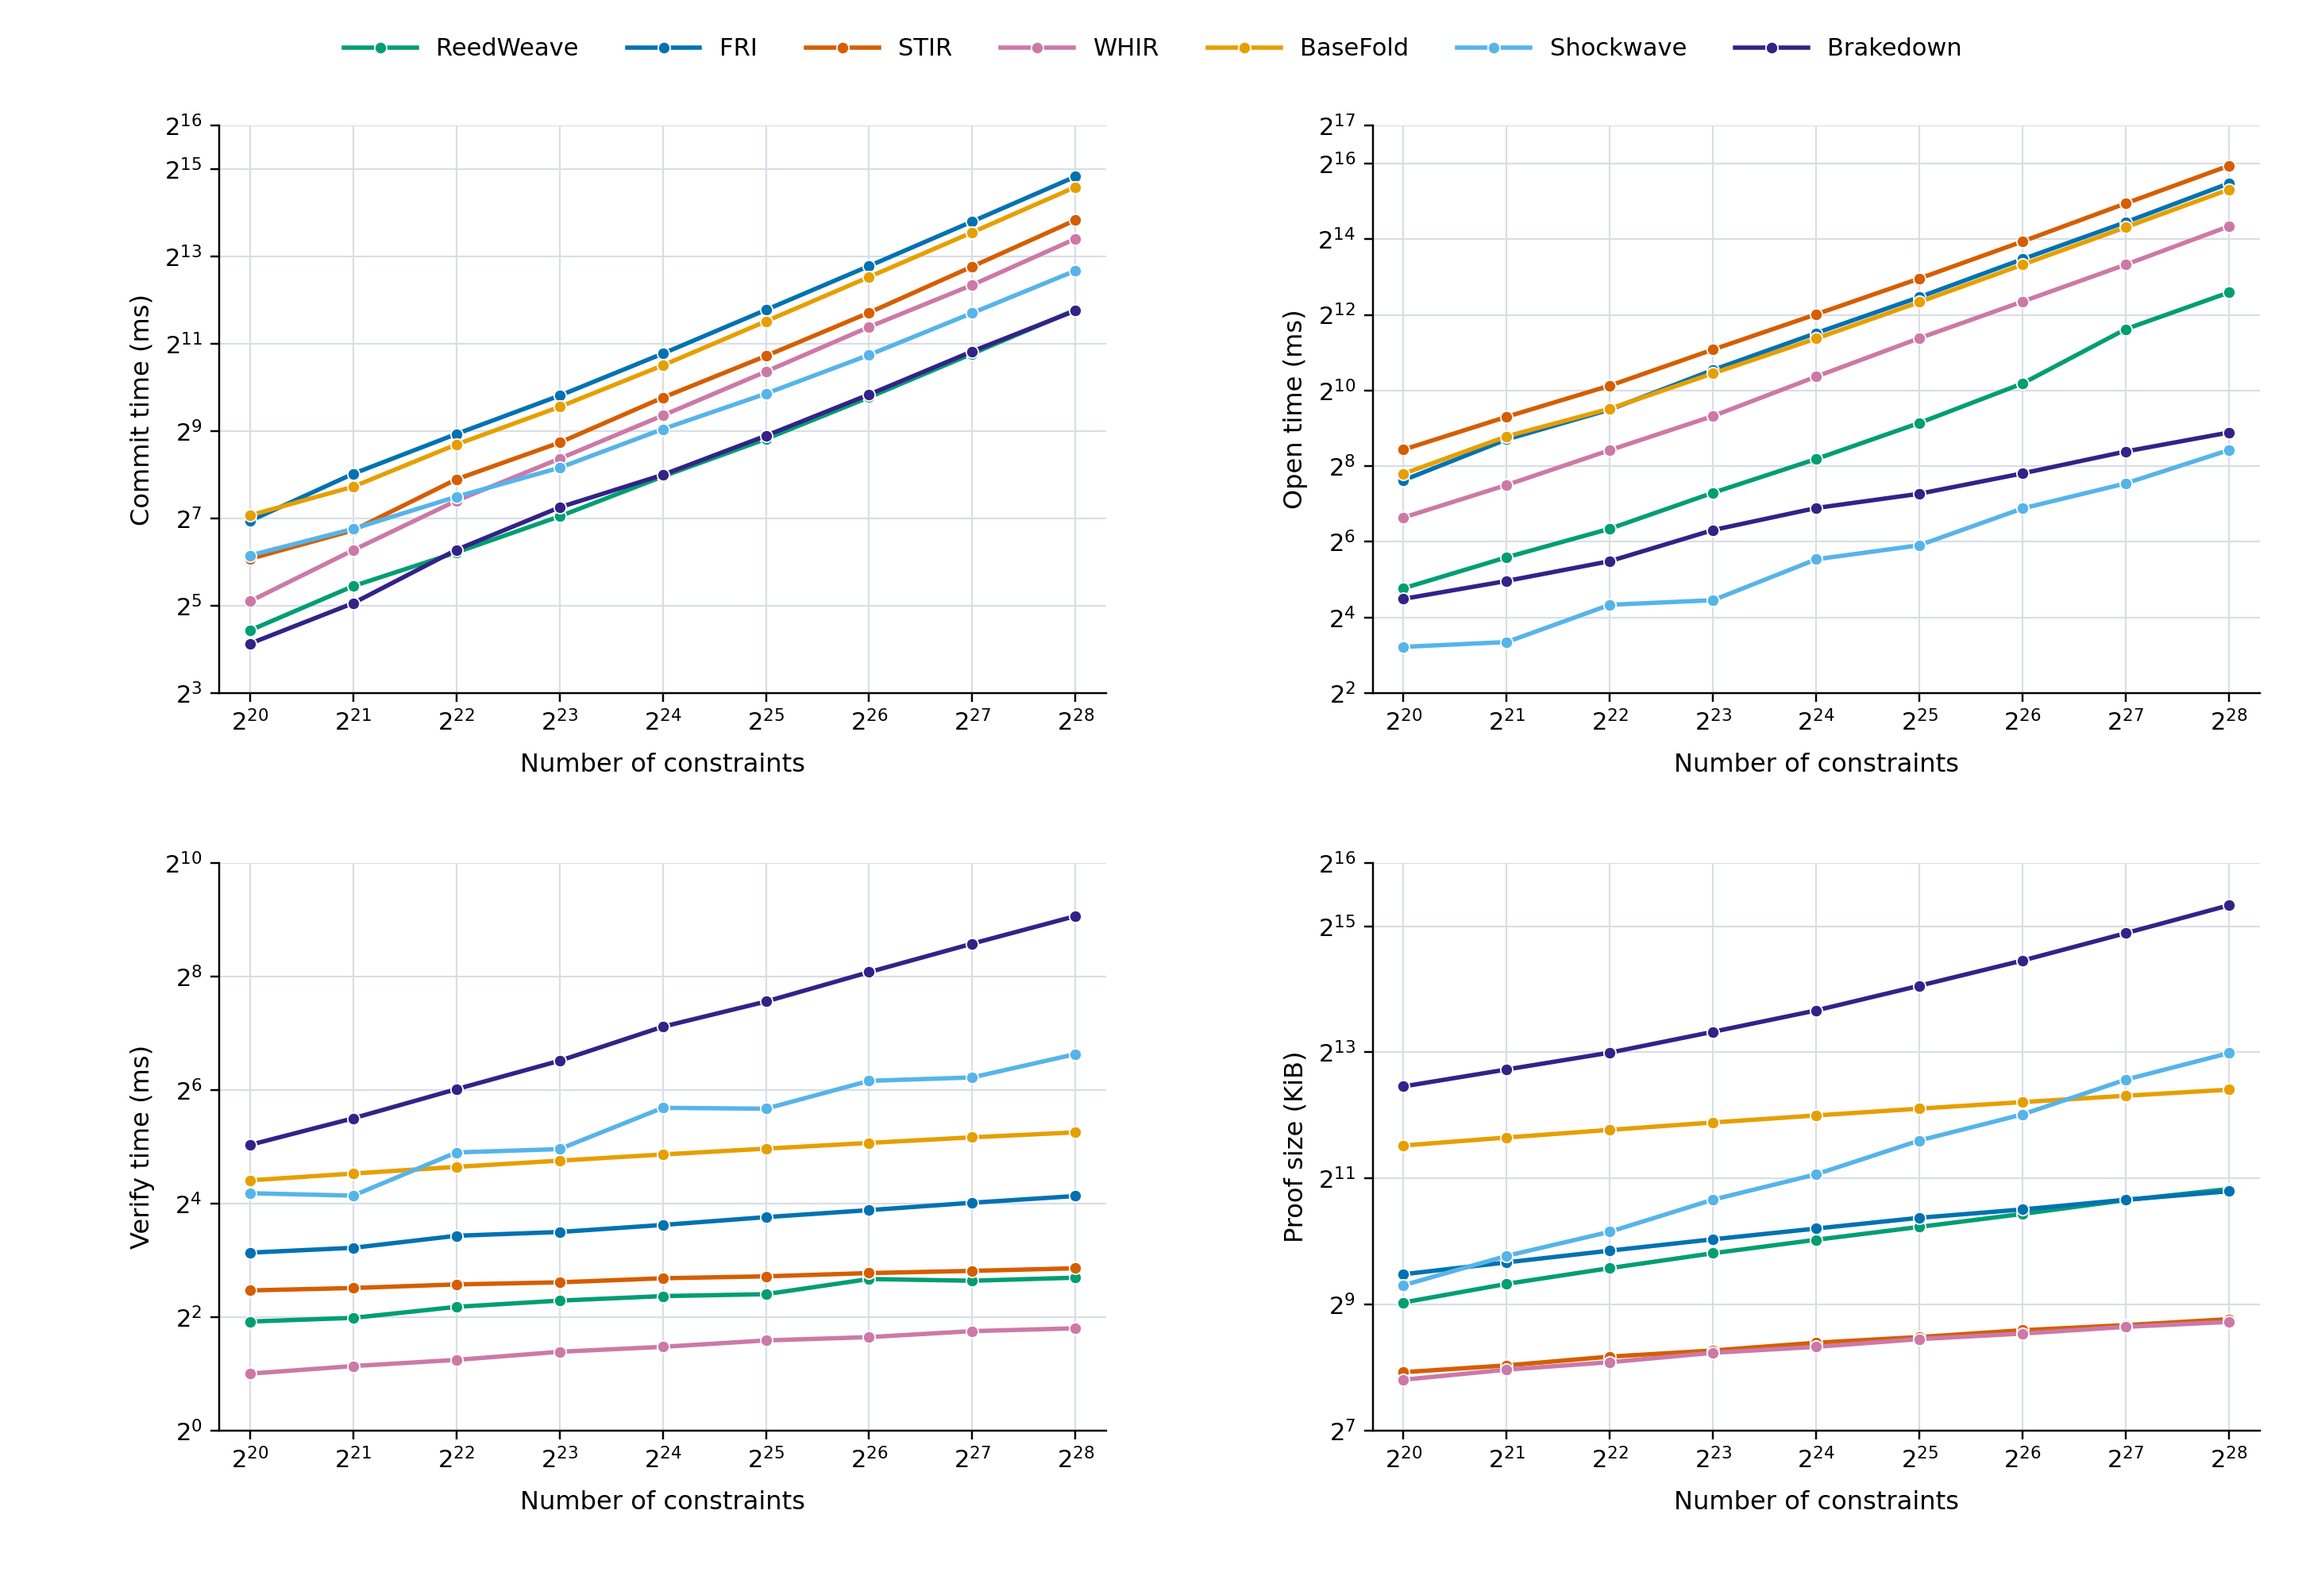
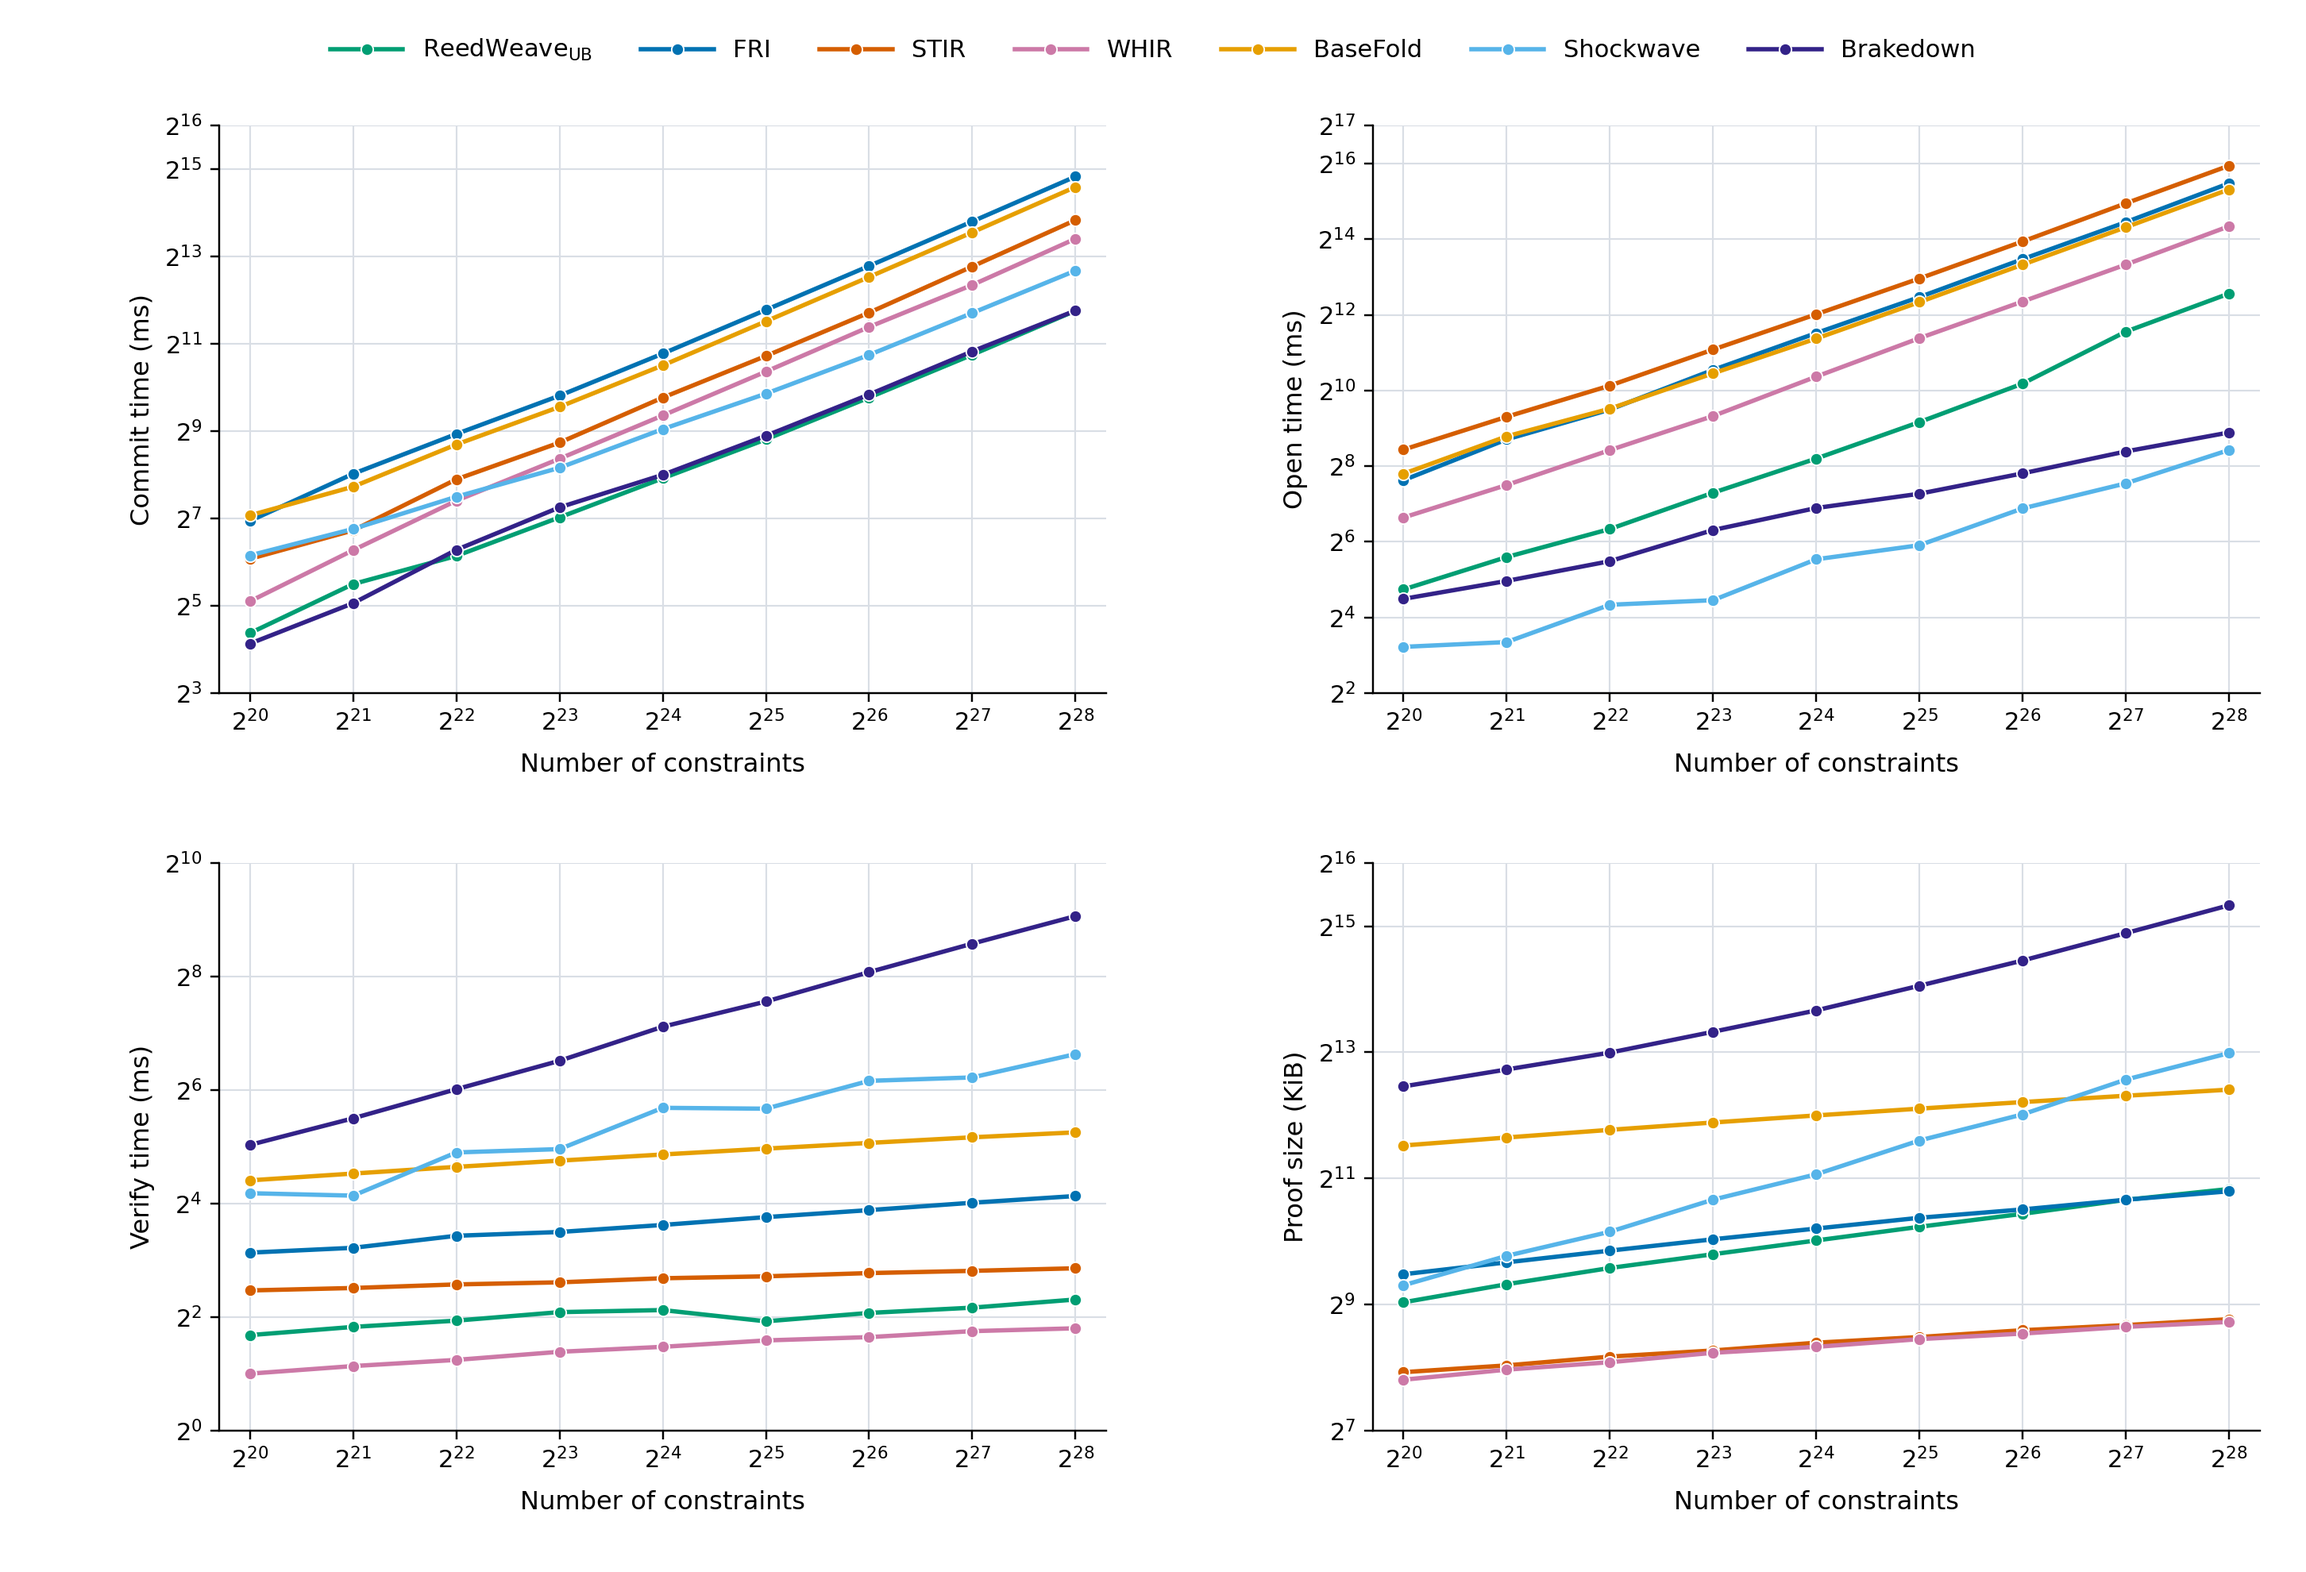
bench: refresh ReedWeave_UB measurements and subscript comparison legend

diff --git a/scripts/plot_results.py b/scripts/plot_results.py
@@ -4,10 +4,10 @@
 Paths do not distinguish timing models: use logs to identify measurement provenance.
 Do not mix historical times with new core algorithm times.
 Read each protocol from <root>/<protocol>/goldilocks.csv.
-ReedWeave requires the full public-parameter schema; legacy compact headers are rejected.
+ReedWeave_UB requires the full public-parameter schema; legacy compact headers are rejected.
 The CSV has no protocol-version column; campaign provenance is external metadata.
 Use --log-d 1..3 (alias --log-sizes) to select other sizes, including tiny cases.
-ReedWeave pp may vary with log_d, but must be fixed within each size across trials
+ReedWeave_UB pp may vary with log_d, but must be fixed within each size across trials
 and thread counts; ambiguous campaigns are rejected.
 Plot arithmetic means of measured trials.
 CSV times are already in ms and proof sizes in KiB; no unit conversion is applied.
@@ -40,7 +40,7 @@ from statistics import mean
 
 FIELDS = {"goldilocks": "Goldilocks"}
 PROTOCOLS = {
-    "reedweave": ("ReedWeave", "#009E73"),
+    "reedweave_ub": ("ReedWeave_UB", "#009E73"),
     "fri": ("FRI", "#0072B2"),
     "stir": ("STIR", "#D55E00"),
     "whir": ("WHIR", "#CC79A7"),
@@ -81,8 +81,8 @@ def csv_path(protocol, root, field="goldilocks"):
     return directory / f"{field}.csv"
 
 
-def validate_reedweave(row, *, word_bytes=struct.calcsize("P")):
-    """Mirror BrakeParams::new on the plotting platform; no proof allocation.
+def validate_reedweave_ub(row, *, word_bytes=struct.calcsize("P")):
+    """Mirror UbParams::new on the plotting platform; no proof allocation.
 
     Rust usize/pointers occupy one word and Vec metadata occupies three words.
     The optional word size permits synthetic 32/64-bit boundary regression tests.
@@ -104,7 +104,7 @@ def validate_reedweave(row, *, word_bytes=struct.calcsize("P")):
         return value
 
     if row["base_field"] != "goldilocks":
-        raise ValueError("ReedWeave requires base_field=goldilocks")
+        raise ValueError("ReedWeave_UB requires base_field=goldilocks")
     e, log_d, m, blowup, terminal, queries = (
         int(row[column]) for column in ("extension_degree", "log_d", "m", "blowup",
                                         "terminal_coefficients", "num_queries"))
@@ -117,10 +117,10 @@ def validate_reedweave(row, *, word_bytes=struct.calcsize("P")):
     if m <= 0 or d % m or queries <= 0:
         raise ValueError("m must divide d and num_queries must be positive")
     k = d // m
-    if not power_two(k) or k < 2 or not power_two(blowup) or blowup < 2:
-        raise ValueError("k and blowup must be powers of two >= 2")
-    if not power_two(terminal) or terminal > k // 2:
-        raise ValueError("terminal_coefficients must be a power of two in 1..k/2")
+    if not power_two(k) or k < 4 or not power_two(blowup) or blowup < 2:
+        raise ValueError("k and blowup must be powers of two with k >= 4 and blowup >= 2")
+    if not power_two(terminal) or terminal < 2 or terminal > k // 2:
+        raise ValueError("terminal_coefficients must be a power of two in 2..k/2")
     domain = blowup * k
     if domain > usize_max:
         raise ValueError("pp arithmetic overflow")
@@ -140,7 +140,7 @@ def validate_reedweave(row, *, word_bytes=struct.calcsize("P")):
     openings = min(query_slots, domain)
     row_bytes = add(mul(m, 8), vec_bytes)
     initial_bytes = mul(openings, row_bytes)
-    prefix_bytes = add(mul(m, 8), mul(rounds, 2 * width + 32), mul(terminal, width))
+    prefix_bytes = add(mul(m, 8), mul(rounds, 2 * width), mul(rounds - 1, 32), mul(terminal, width))
     framing_bytes = add(mul(openings, 10), mul(rounds, 4 * vec_bytes + 40), 128)
     auth_bytes = mul(mul(mul(openings, domain.bit_length() - 1), rounds), 32)
     scalar_bytes = mul(mul(openings, rounds), width)
@@ -167,7 +167,7 @@ def comparison_fields(protocols, fields=None) -> tuple[str, ...]:
 
 
 def load_means(results: Path, plonky3_results: Path | None = None,
-                 protocols=("reedweave",), repetitions: int | None = None,
+                 protocols=("reedweave_ub",), repetitions: int | None = None,
                  threads: tuple[int, ...] | None = None,
                  fields: tuple[str, ...] | None = None,
                  log_sizes: tuple[int, ...] = LOG_SIZES
@@ -184,7 +184,7 @@ def load_means(results: Path, plonky3_results: Path | None = None,
         for field in fields:
             path = csv_path(protocol, root, field)
             identities = {}
-            header = HEADER if protocol == "reedweave" else PCS_HEADER
+            header = HEADER if protocol == "reedweave_ub" else PCS_HEADER
             groups: dict[tuple[int, int], list[dict[str, str]]] = {}
             with path.open(newline="") as stream:
                 reader = csv.DictReader(stream)
@@ -195,8 +195,8 @@ def load_means(results: Path, plonky3_results: Path | None = None,
                         raise ValueError(f"{path}:{reader.line_num}: row must have exactly {len(header)} columns")
                     try:
                         thread_count = int(row["threads"])
-                        if protocol == "reedweave":
-                            log_n, identity = validate_reedweave(row)
+                        if protocol == "reedweave_ub":
+                            log_n, identity = validate_reedweave_ub(row)
                             if thread_count <= 0:
                                 raise ValueError("threads must be positive")
                         else:
@@ -215,9 +215,9 @@ def load_means(results: Path, plonky3_results: Path | None = None,
                                 raise ValueError("incompatible rate")
                         if log_n not in log_sizes or (threads is not None and thread_count not in threads):
                             continue
-                        if protocol == "reedweave":
+                        if protocol == "reedweave_ub":
                             if identities.setdefault(log_n, identity) != identity:
-                                raise ValueError("ambiguous ReedWeave pp: parameters must be fixed at each log_d "
+                                raise ValueError("ambiguous ReedWeave_UB pp: parameters must be fixed at each log_d "
                                                  "across trials and thread counts")
                         for column, _, _ in METRICS:
                             value = float(row[column])
@@ -229,7 +229,7 @@ def load_means(results: Path, plonky3_results: Path | None = None,
                         raise ValueError(f"{path}:{reader.line_num}: {error}") from error
                     groups.setdefault((thread_count, log_n), []).append(row)
             for log_n, identity in sorted(identities.items()):
-                print(f"ReedWeave log_d={log_n}: " + ", ".join(
+                print(f"ReedWeave_UB log_d={log_n}: " + ", ".join(
                     f"{key}={value}" for key, value in zip(PP_COLUMNS, identity)))
             if not groups:
                 raise ValueError(f"{path}: no measurements")
@@ -317,7 +317,7 @@ def configure_y_axis(ax, title: str, unit: str, limits):
 
 
 def plot_profile(data, profile: str, threads: int, out: Path, dpi: int,
-                 protocols=("reedweave",), log_sizes=LOG_SIZES) -> Path:
+                 protocols=("reedweave_ub",), log_sizes=LOG_SIZES) -> Path:
     import matplotlib.pyplot as plt
 
     fig, axes = plt.subplots(2, 2, figsize=(13.2, 9.0))
@@ -325,8 +325,10 @@ def plot_profile(data, profile: str, threads: int, out: Path, dpi: int,
     for ax, (metric, title, unit) in zip(axes.flat, METRICS):
         for protocol in protocols:
             name, color = PROTOCOLS[protocol]
+            # Format only the legend; keep the CSV directory name unchanged.
+            label = r"ReedWeave$_{\mathrm{UB}}$" if protocol == "reedweave_ub" else name
             values = [data[profile, threads, n, protocol][metric] for n in log_sizes]
-            ax.plot(log_sizes, values, color=color, label=name, linestyle="-", linewidth=1.8,
+            ax.plot(log_sizes, values, color=color, label=label, linestyle="-", linewidth=1.8,
                     marker="o", markersize=5, markeredgecolor="white", markeredgewidth=0.6)
         configure_y_axis(ax, title, unit, axis_limits(data, profile, metric))
         ax.set_xlim(log_sizes[0] - 0.3, log_sizes[-1] + 0.3)
@@ -404,7 +406,7 @@ def main():
                         help="Figure root; writes <out>/<base_field>/threads_<count>.png directly. "
                              "Default: <results>/figures")
     parser.add_argument("--log-sizes", "--log-d", type=parse_log_sizes, default=LOG_SIZES,
-                        help="Size exponent list or inclusive range, e.g. 1,2,3 or 1..3 (default: 20..28); ReedWeave log_d, others native log_n")
+                        help="Size exponent list or inclusive range, e.g. 1,2,3 or 1..3 (default: 20..28); ReedWeave_UB log_d, others native log_n")
     parser.add_argument("--dpi", type=int, default=220)
     parser.add_argument("--validate-only", action="store_true",
                         help="Validate CSV completeness without importing Matplotlib or plotting")
@@ -423,8 +425,8 @@ def main():
     print(f"Validated {len(data)} configurations, {records} input records "
           f"in {len({(f, p) for f, _, _, p in data})} CSVs; protocols={','.join(protocols)}.")
     print("Cross-protocol inputs, security assumptions and PoW can differ; compare native configurations, not identical tasks.")
-    if "reedweave" in protocols:
-        print("ReedWeave: structural pp validation only; security strength has not been assessed.")
+    if "reedweave_ub" in protocols:
+        print("ReedWeave_UB: structural pp validation only; security strength has not been assessed.")
     for protocol in protocols:
         if protocol in SINGLE_RECORD_PROTOCOLS:
             print(f"{PROTOCOLS[protocol][0]}: one supplied record per size by default, "
